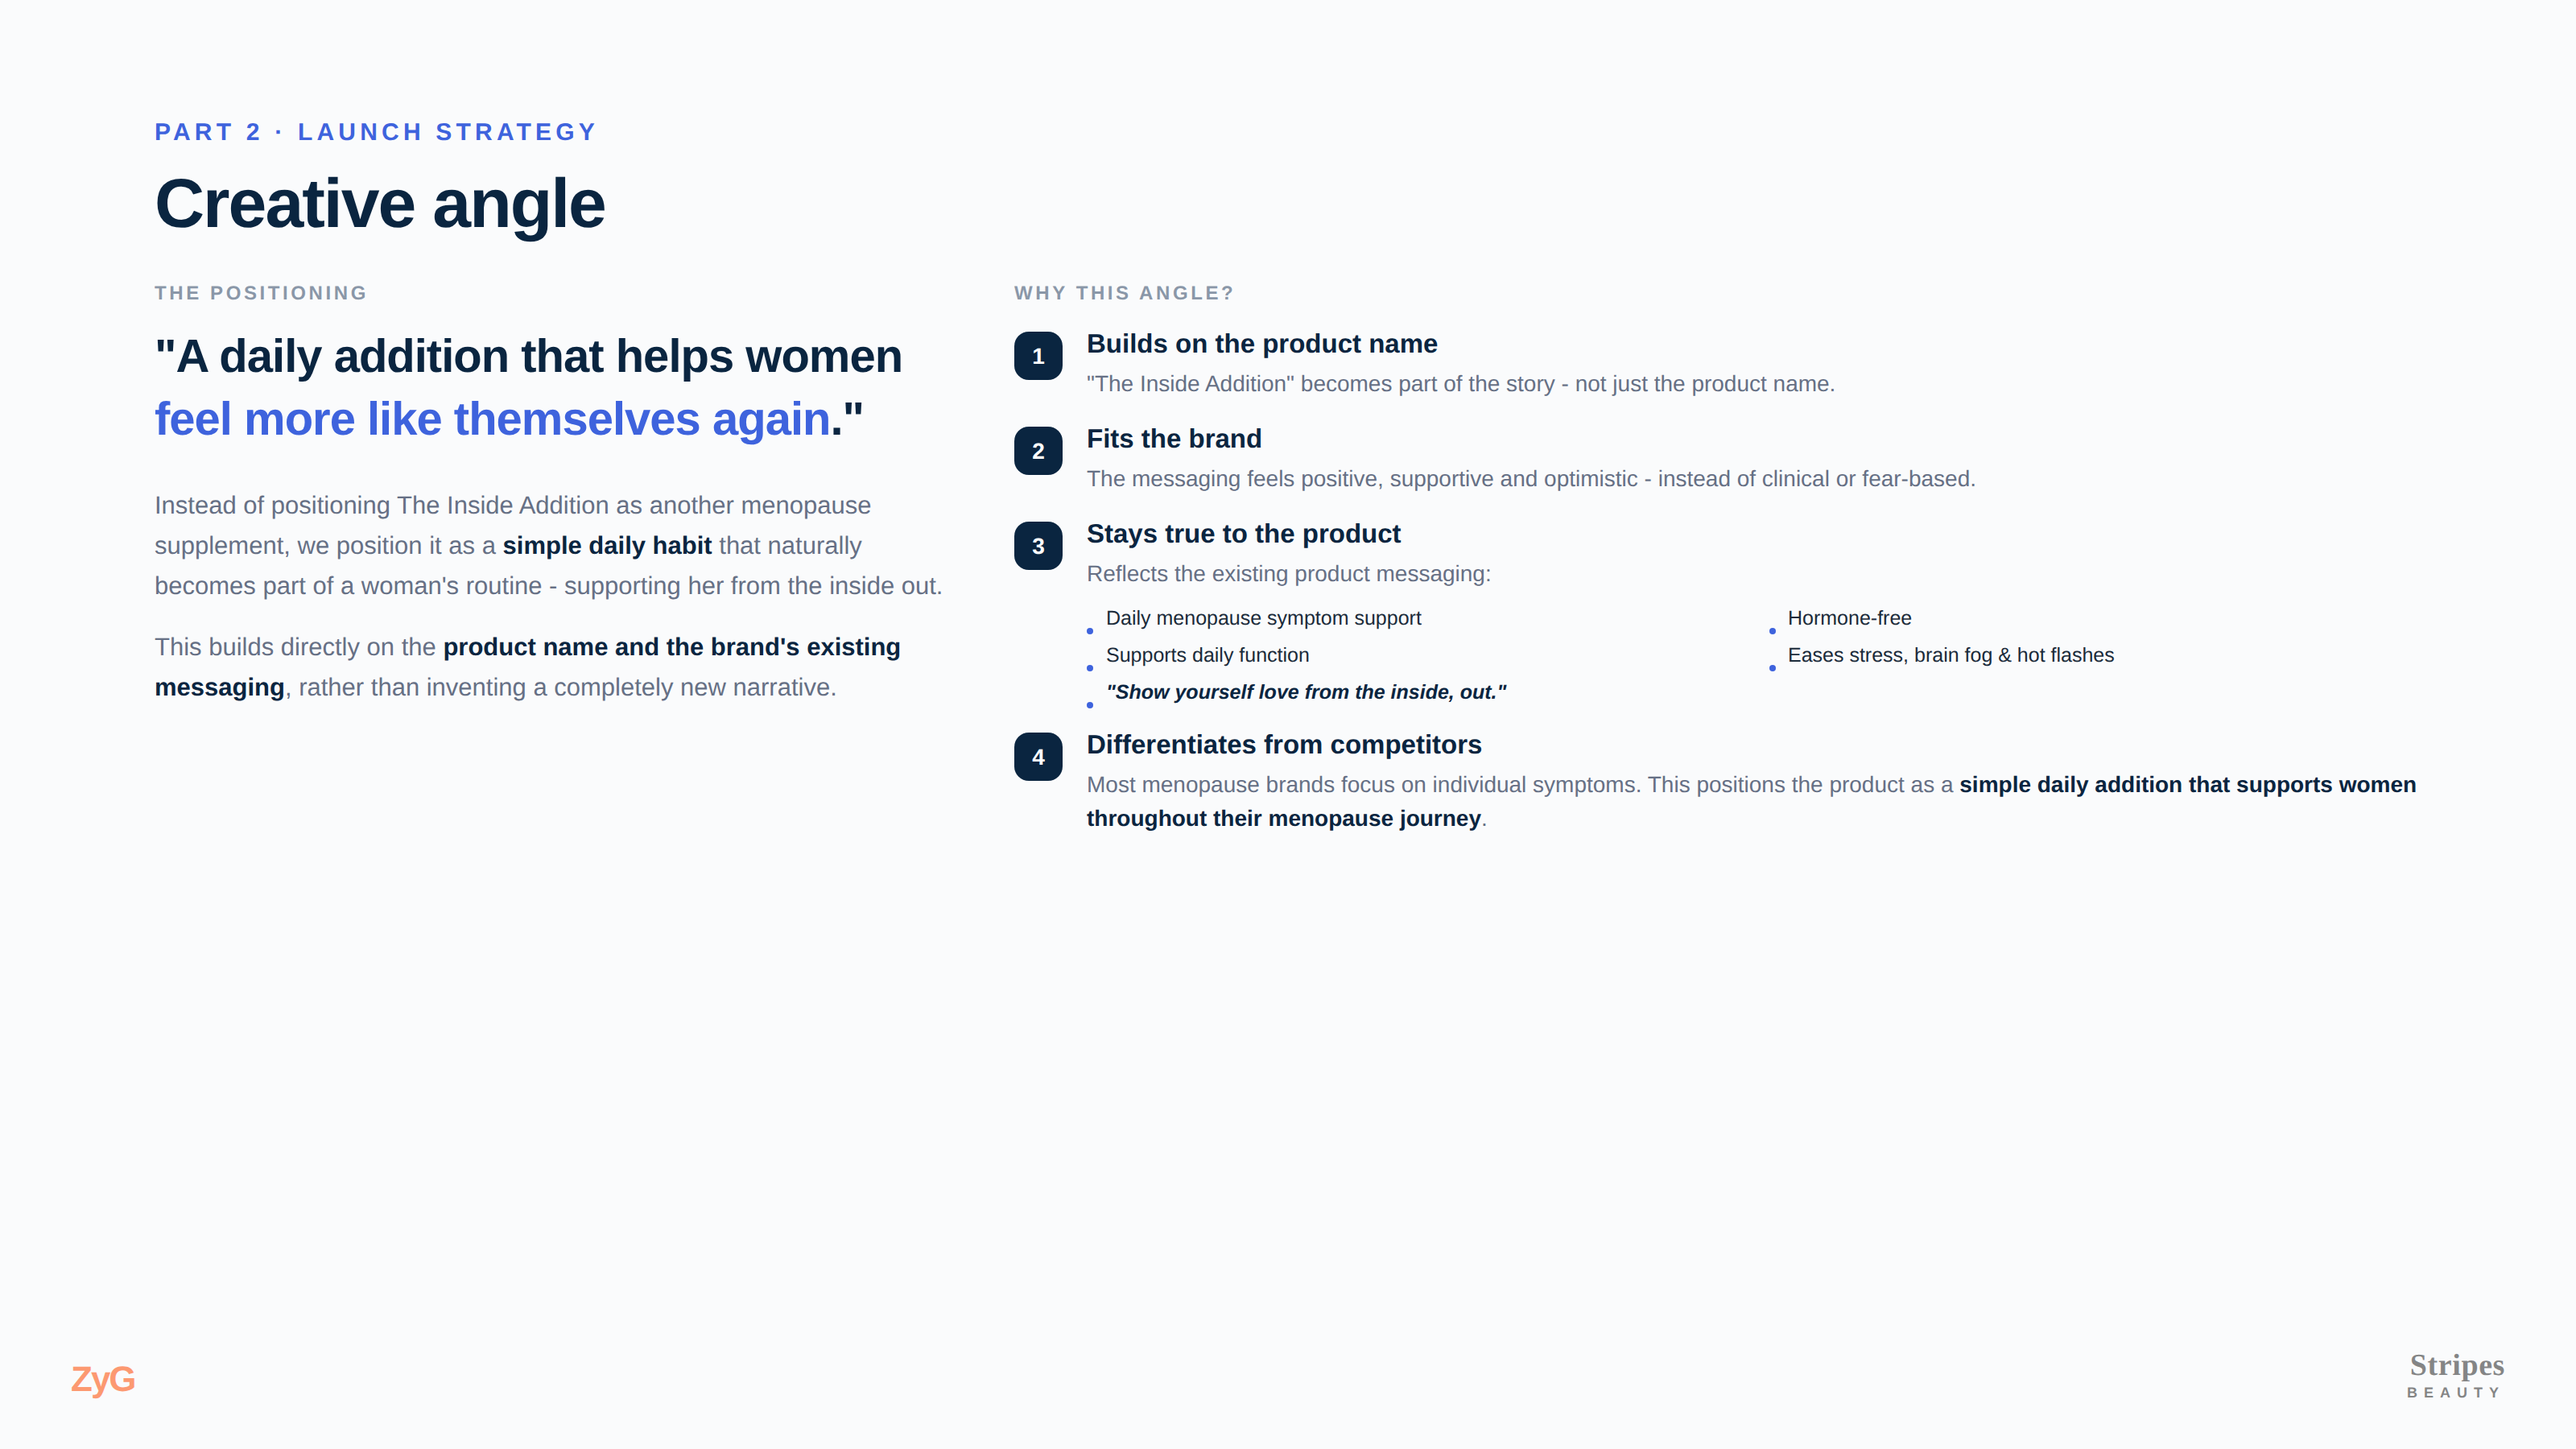
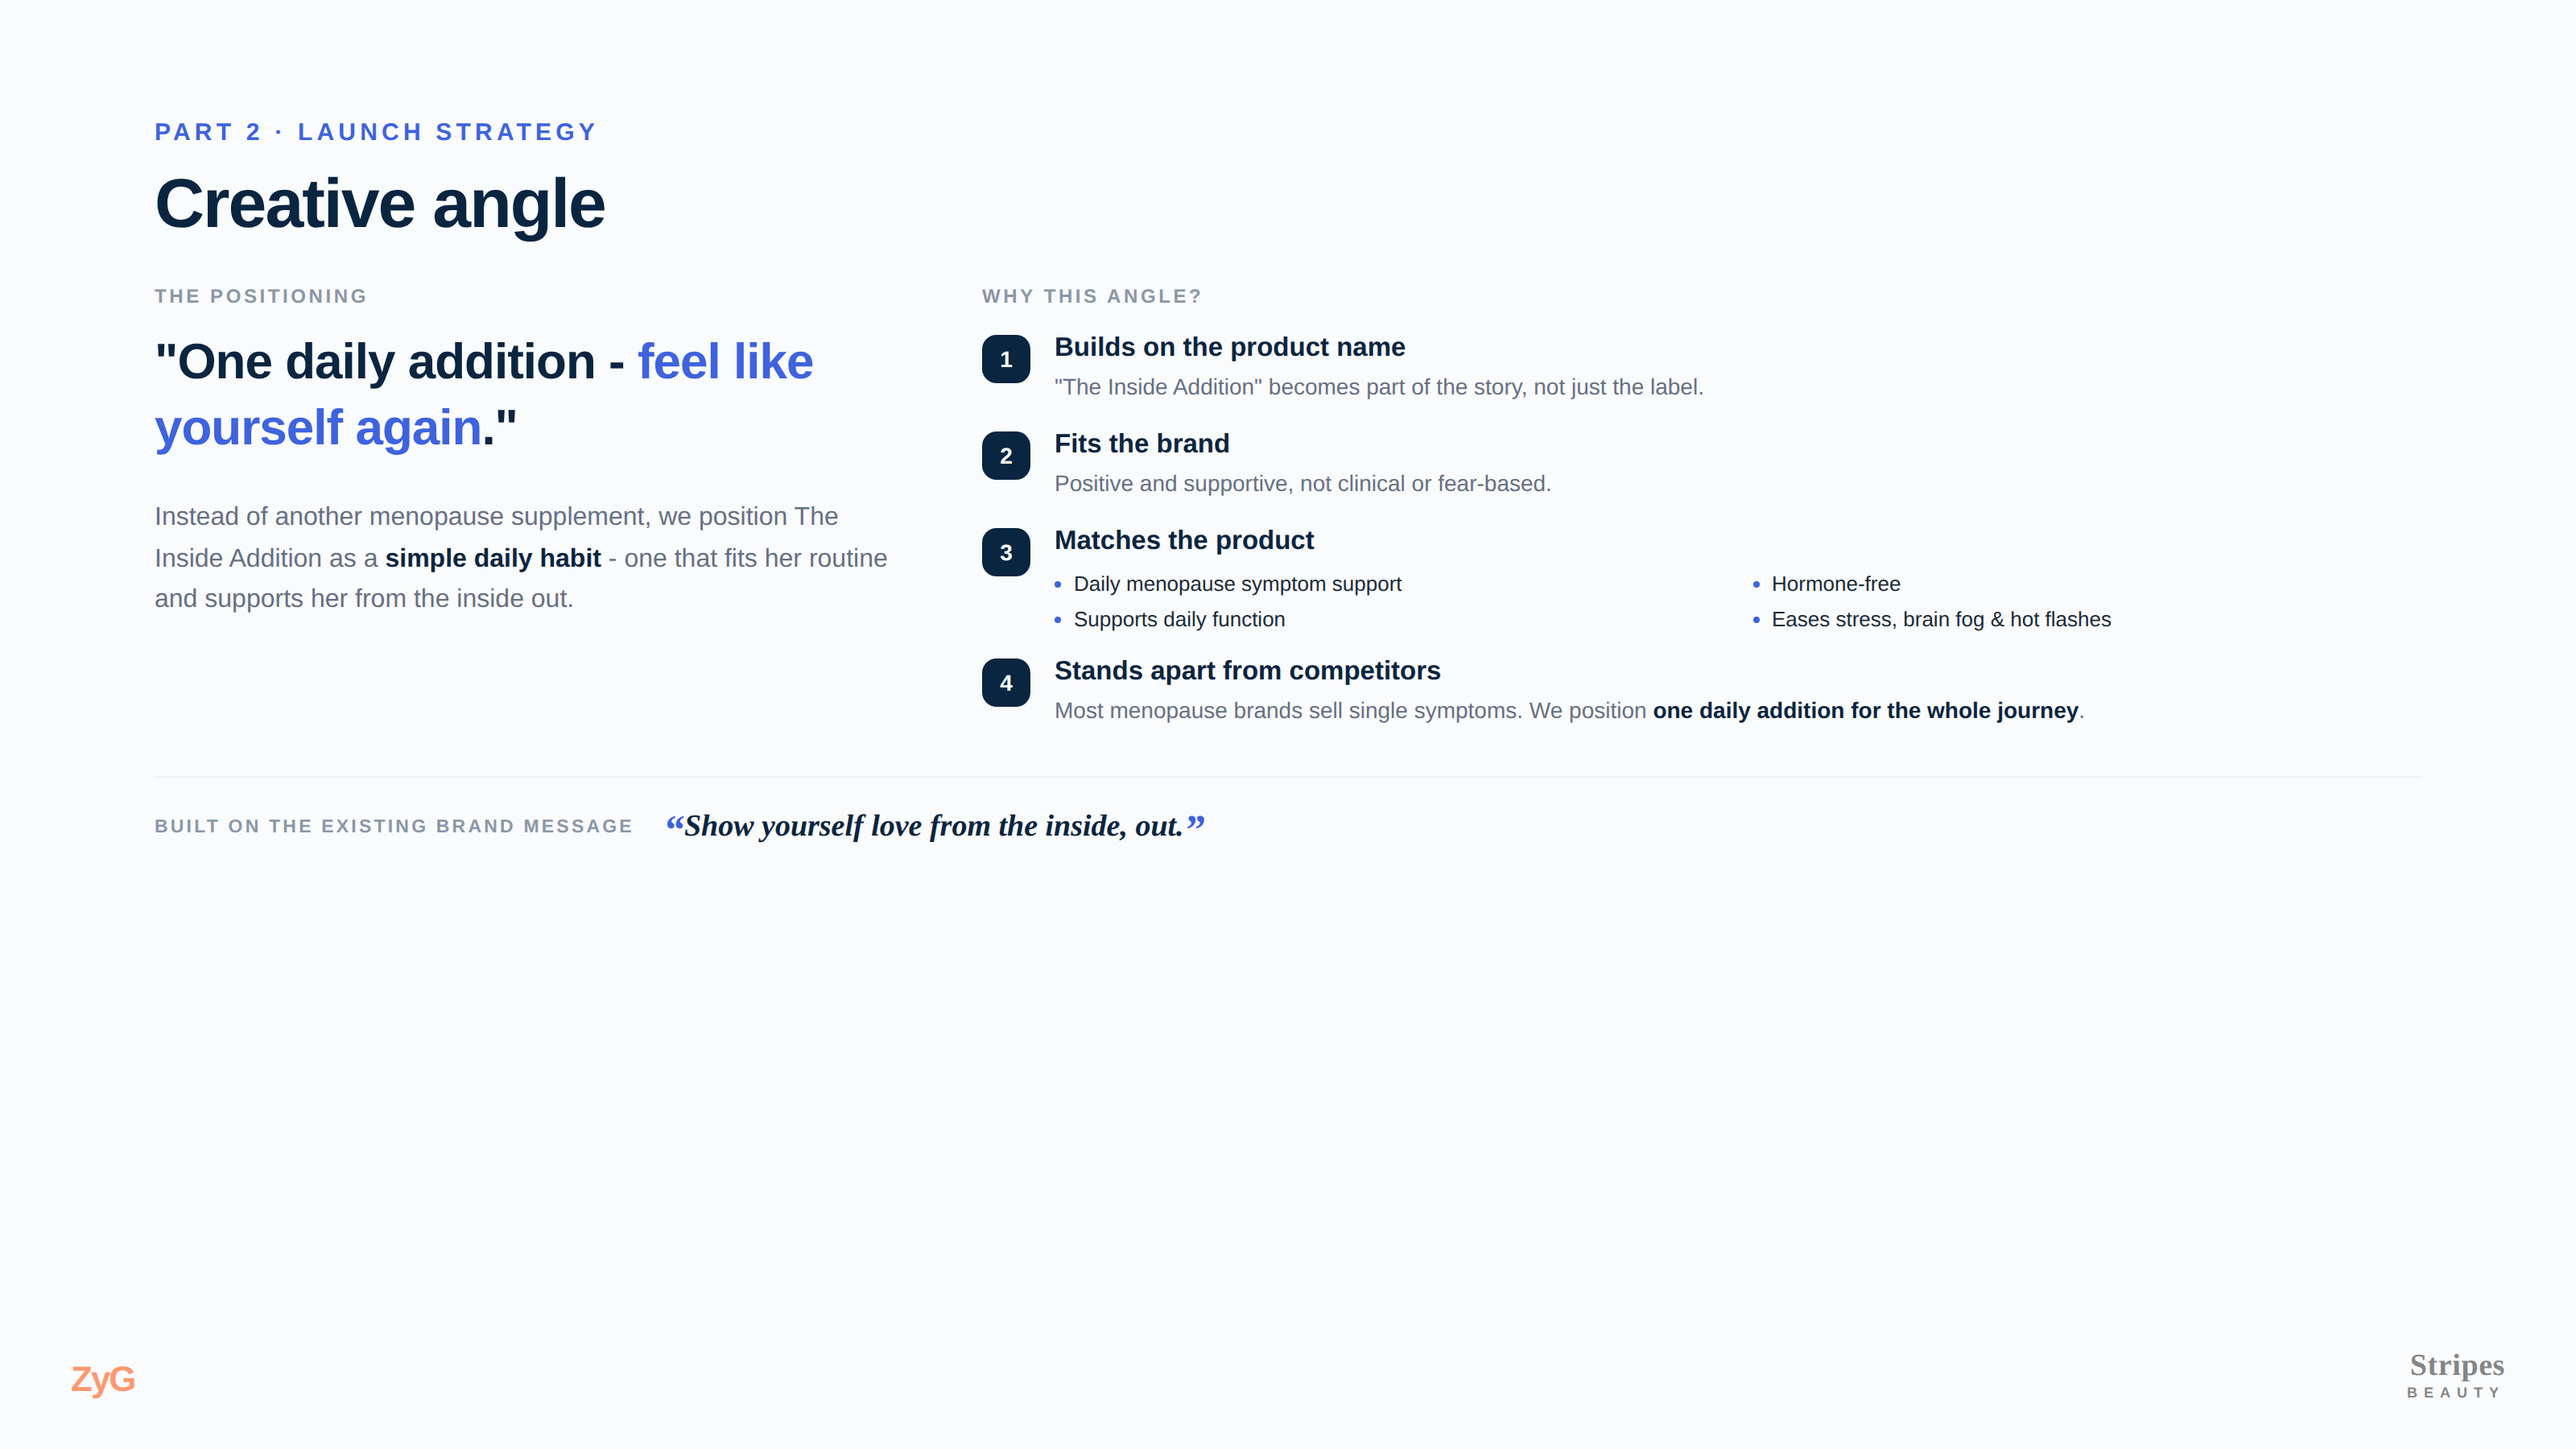
Refine Part 2 creative angle: stronger headline, tighter copy, brand-proof line
New headline (One daily addition - feel like yourself again); drop the repetitive
paragraph; rename to 'Matches the product' with direct 4-point list; add subtle
'Built on the existing brand message' proof line with the brand quote.

Claude-Session: https://claude.ai/code/session_01GoAG3ySswQXo2H1hh5EwTk

Changed region(s): [[0.0625, 0.1867, 0.9375, 0.5911], [0.0625, 0.3422, 0.3438, 0.4978], [0.0625, 0.1867, 0.3438, 0.3111]]

diff --git a/diagrams/slides/p2-01-creative-angle.html b/diagrams/slides/p2-01-creative-angle.html
@@ -1,30 +1,31 @@
 <!doctype html><html><head><meta charset="utf-8"><link rel="stylesheet" href="style.css">
 <style>
-  .cols{display:flex;gap:44px;margin-top:24px;flex:1;align-items:flex-start;}
-
+  .cols{display:flex;gap:44px;margin-top:26px;}
   /* left: the angle */
-  .left{flex:0 0 490px;}
+  .left{flex:0 0 470px;}
   .sec{font-size:12px;font-weight:700;letter-spacing:1.8px;text-transform:uppercase;color:var(--faint);}
-  .angle{font-size:29px;font-weight:700;color:var(--navy);line-height:1.34;letter-spacing:-.5px;margin-top:14px;}
+  .angle{font-size:31px;font-weight:700;color:var(--navy);line-height:1.32;letter-spacing:-.5px;margin-top:14px;}
   .angle .q{color:var(--blue);}
-  .support{margin-top:22px;}
-  .support p{font-size:15.5px;color:var(--muted);line-height:1.6;}
-  .support p + p{margin-top:14px;}
+  .support{margin-top:22px;font-size:16px;color:var(--muted);line-height:1.6;}
   .support b{color:var(--navy);font-weight:700;}
 
   /* right: why this angle */
   .right{flex:1;min-width:0;}
-  .points{margin-top:16px;display:flex;flex-direction:column;gap:15px;}
+  .points{margin-top:16px;display:flex;flex-direction:column;gap:16px;}
   .pt{display:flex;gap:15px;align-items:flex-start;}
   .pt .n{width:30px;height:30px;border-radius:9px;background:var(--navy);color:#fff;font-size:14px;font-weight:700;display:flex;align-items:center;justify-content:center;flex-shrink:0;margin-top:1px;}
   .pt .h{font-size:16.5px;font-weight:700;color:var(--navy);}
   .pt .t{font-size:14px;color:var(--muted);line-height:1.5;margin-top:4px;}
   .pt .t b{color:var(--navy);font-weight:700;}
-  .subm{margin-top:9px;display:grid;grid-template-columns:1fr 1fr;gap:6px 18px;}
-  .subm .s{display:flex;gap:8px;align-items:baseline;font-size:12.5px;color:var(--ink);line-height:1.35;}
-  .subm .s .d{width:4px;height:4px;border-radius:50%;background:var(--blue);flex-shrink:0;position:relative;top:6px;}
-  .subm .s.full{grid-column:1 / -1;}
-  .subm .s.full .q{font-style:italic;color:var(--navy);font-weight:600;}
+  .subm{margin-top:9px;display:grid;grid-template-columns:1fr 1fr;gap:7px 18px;}
+  .subm .s{display:flex;gap:8px;align-items:center;font-size:13px;color:var(--ink);}
+  .subm .s .d{width:4px;height:4px;border-radius:50%;background:var(--blue);flex-shrink:0;}
+
+  /* bottom: brand proof */
+  .proof{margin-top:30px;border-top:1px solid var(--line-2);padding-top:20px;display:flex;align-items:center;gap:18px;}
+  .proof .lab{font-size:11.5px;font-weight:700;letter-spacing:1.6px;text-transform:uppercase;color:var(--faint);flex-shrink:0;}
+  .proof .quote{font-family:Georgia,serif;font-style:italic;font-size:19px;color:var(--navy);font-weight:600;}
+  .proof .qm{color:var(--blue);font-family:Georgia,serif;font-size:26px;line-height:0;position:relative;top:5px;}
 </style></head><body>
 <div class="slide">
   <div class="kicker">Part 2 &middot; Launch Strategy</div>
@@ -33,11 +34,8 @@
   <div class="cols">
     <div class="left">
       <div class="sec">The positioning</div>
-      <div class="angle">"A daily addition that helps women <span class="q">feel more like themselves again</span>."</div>
-      <div class="support">
-        <p>Instead of positioning The Inside Addition as another menopause supplement, we position it as a <b>simple daily habit</b> that naturally becomes part of a woman's routine - supporting her from the inside out.</p>
-        <p>This builds directly on the <b>product name and the brand's existing messaging</b>, rather than inventing a completely new narrative.</p>
-      </div>
+      <div class="angle">"One daily addition - <span class="q">feel like yourself again</span>."</div>
+      <div class="support">Instead of another menopause supplement, we position The Inside Addition as a <b>simple daily habit</b> - one that fits her routine and supports her from the inside out.</div>
     </div>
 
     <div class="right">
@@ -45,32 +43,35 @@
       <div class="points">
         <div class="pt">
           <div class="n">1</div>
-          <div><div class="h">Builds on the product name</div><div class="t">"The Inside Addition" becomes part of the story - not just the product name.</div></div>
+          <div><div class="h">Builds on the product name</div><div class="t">"The Inside Addition" becomes part of the story, not just the label.</div></div>
         </div>
         <div class="pt">
           <div class="n">2</div>
-          <div><div class="h">Fits the brand</div><div class="t">The messaging feels positive, supportive and optimistic - instead of clinical or fear-based.</div></div>
+          <div><div class="h">Fits the brand</div><div class="t">Positive and supportive, not clinical or fear-based.</div></div>
         </div>
         <div class="pt">
           <div class="n">3</div>
           <div style="flex:1;">
-            <div class="h">Stays true to the product</div>
-            <div class="t">Reflects the existing product messaging:</div>
+            <div class="h">Matches the product</div>
             <div class="subm">
               <div class="s"><span class="d"></span>Daily menopause symptom support</div>
               <div class="s"><span class="d"></span>Hormone-free</div>
               <div class="s"><span class="d"></span>Supports daily function</div>
               <div class="s"><span class="d"></span>Eases stress, brain fog &amp; hot flashes</div>
-              <div class="s full"><span class="d"></span><span class="q">"Show yourself love from the inside, out."</span></div>
             </div>
           </div>
         </div>
         <div class="pt">
           <div class="n">4</div>
-          <div><div class="h">Differentiates from competitors</div><div class="t">Most menopause brands focus on individual symptoms. This positions the product as a <b>simple daily addition that supports women throughout their menopause journey</b>.</div></div>
+          <div><div class="h">Stands apart from competitors</div><div class="t">Most menopause brands sell single symptoms. We position <b>one daily addition for the whole journey</b>.</div></div>
         </div>
       </div>
     </div>
+  </div>
+
+  <div class="proof">
+    <span class="lab">Built on the existing brand message</span>
+    <span class="quote"><span class="qm">&ldquo;</span>Show yourself love from the inside, out.<span class="qm">&rdquo;</span></span>
   </div>
 
   <div class="foot"><div class="zyg">ZyG</div><div class="stripes"><div class="word">Stripes</div><div class="beauty">BEAUTY</div></div></div>
